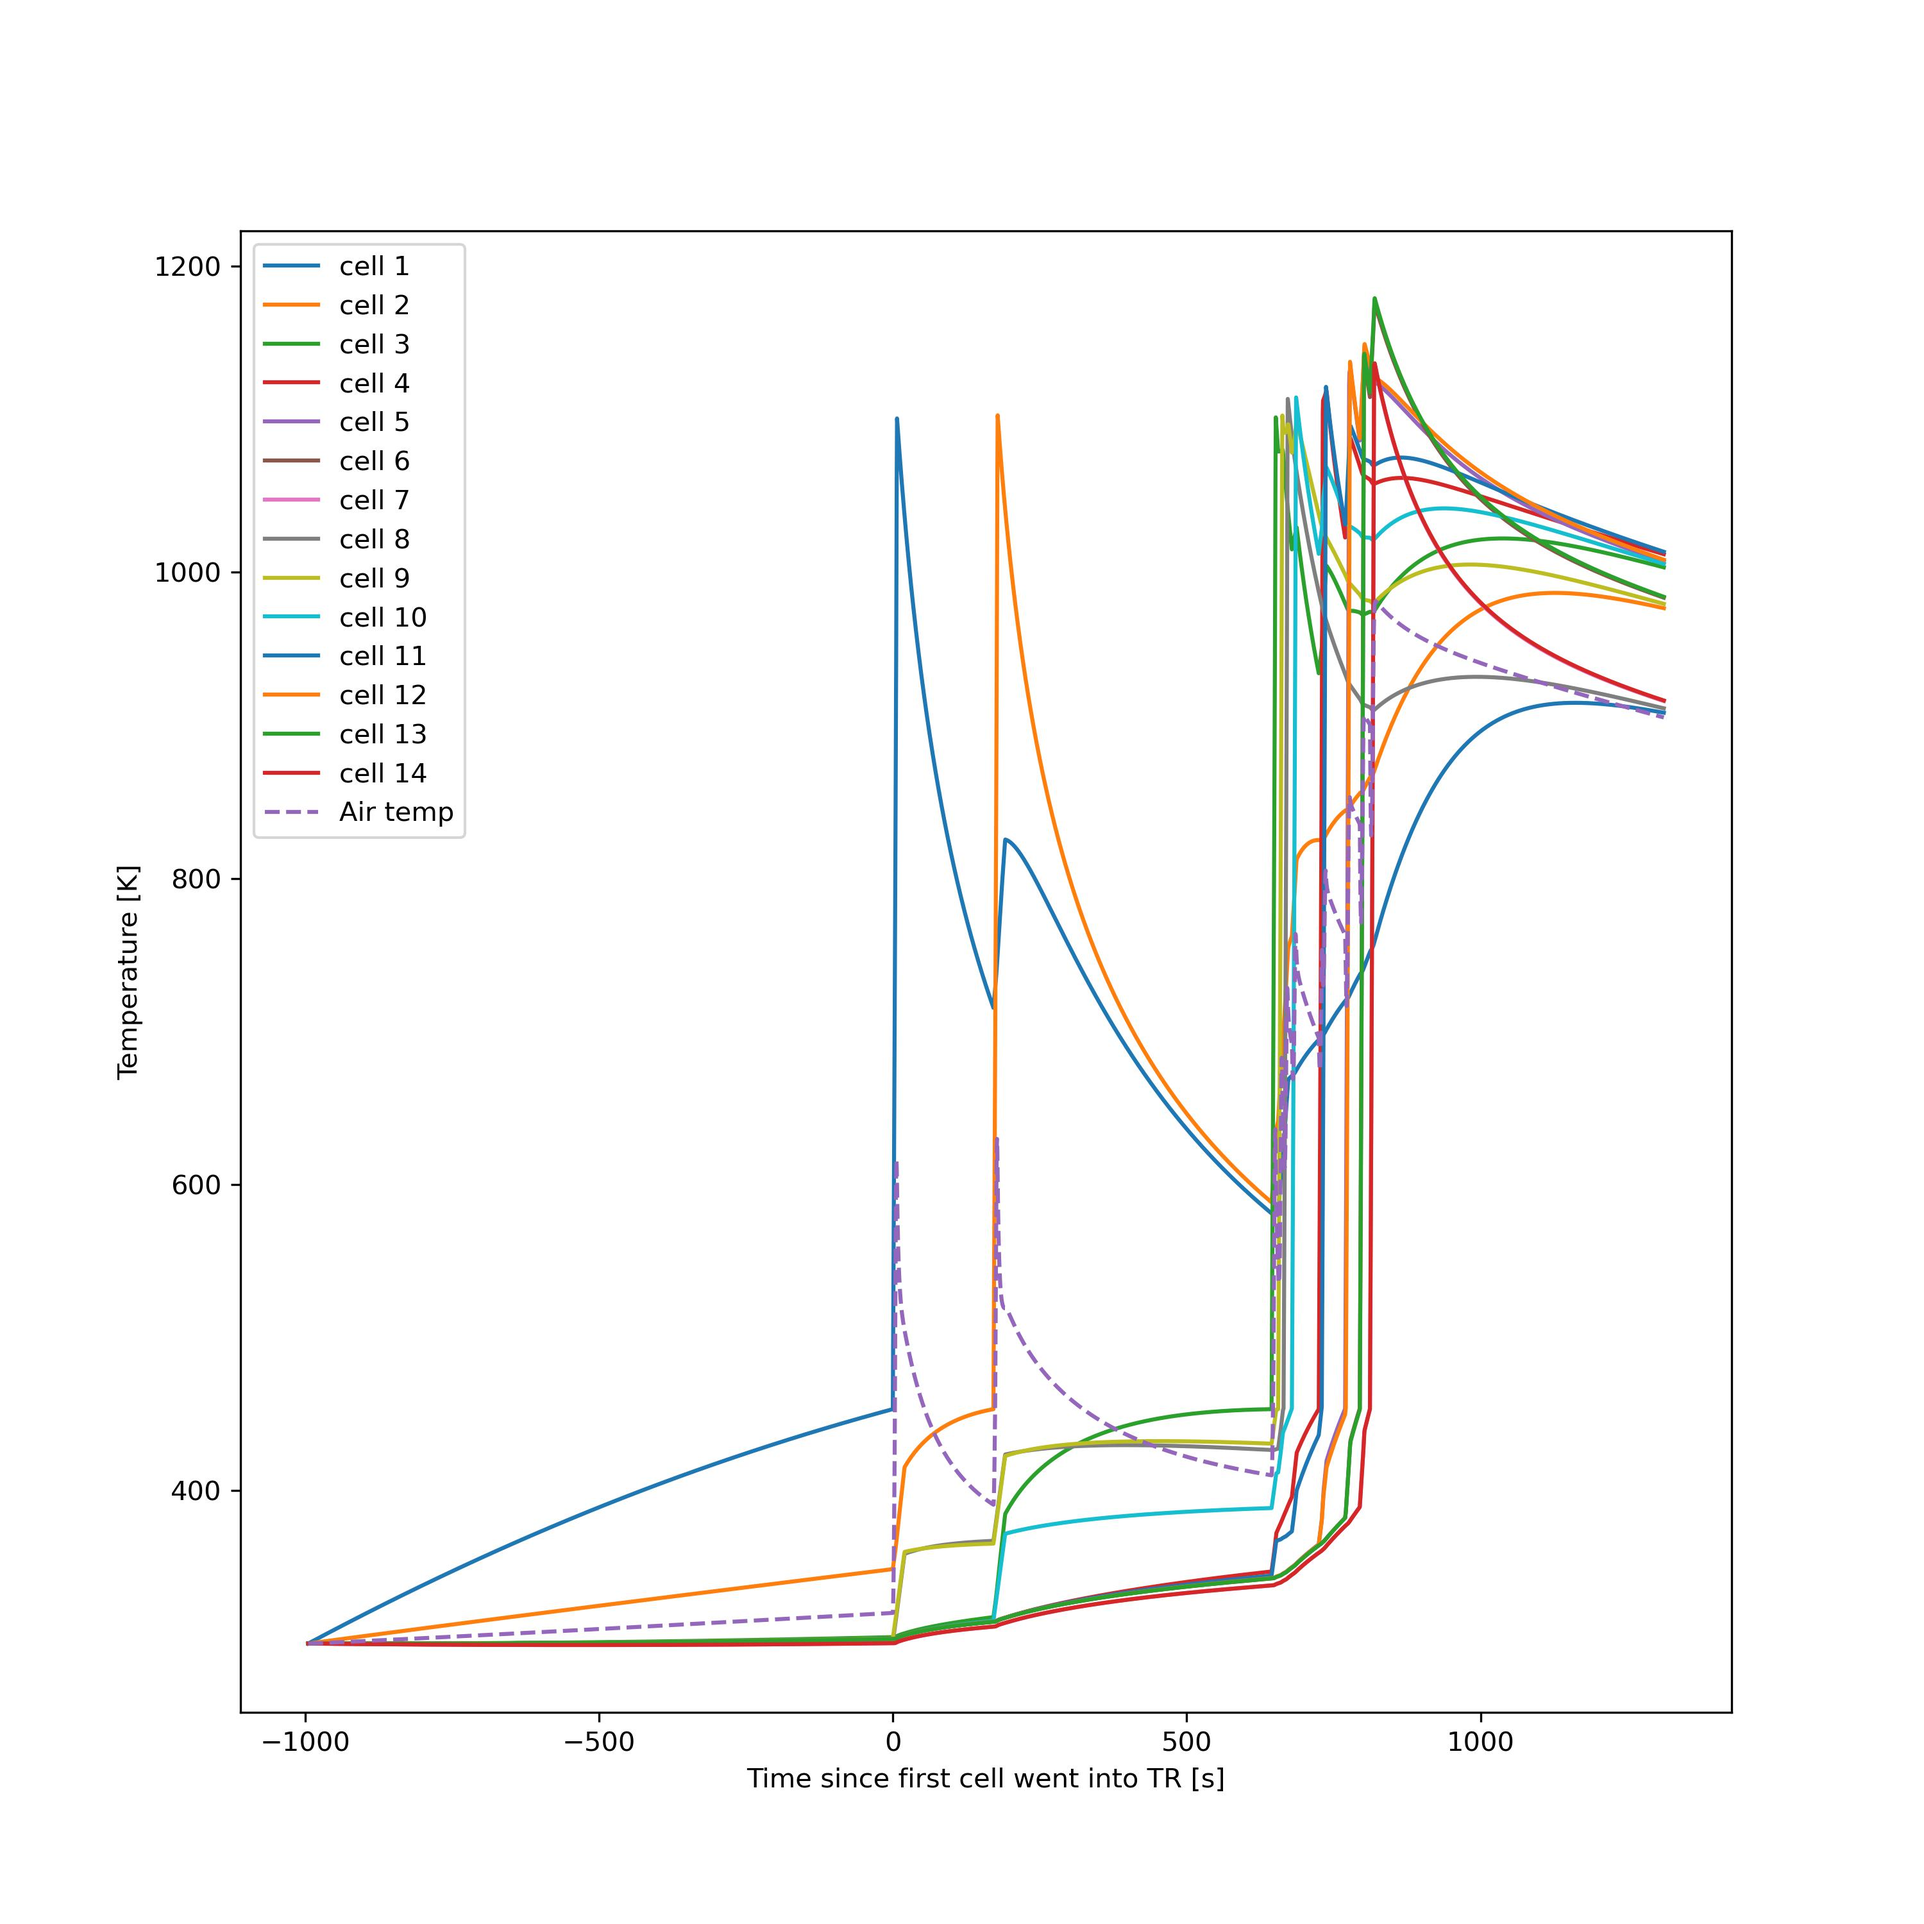
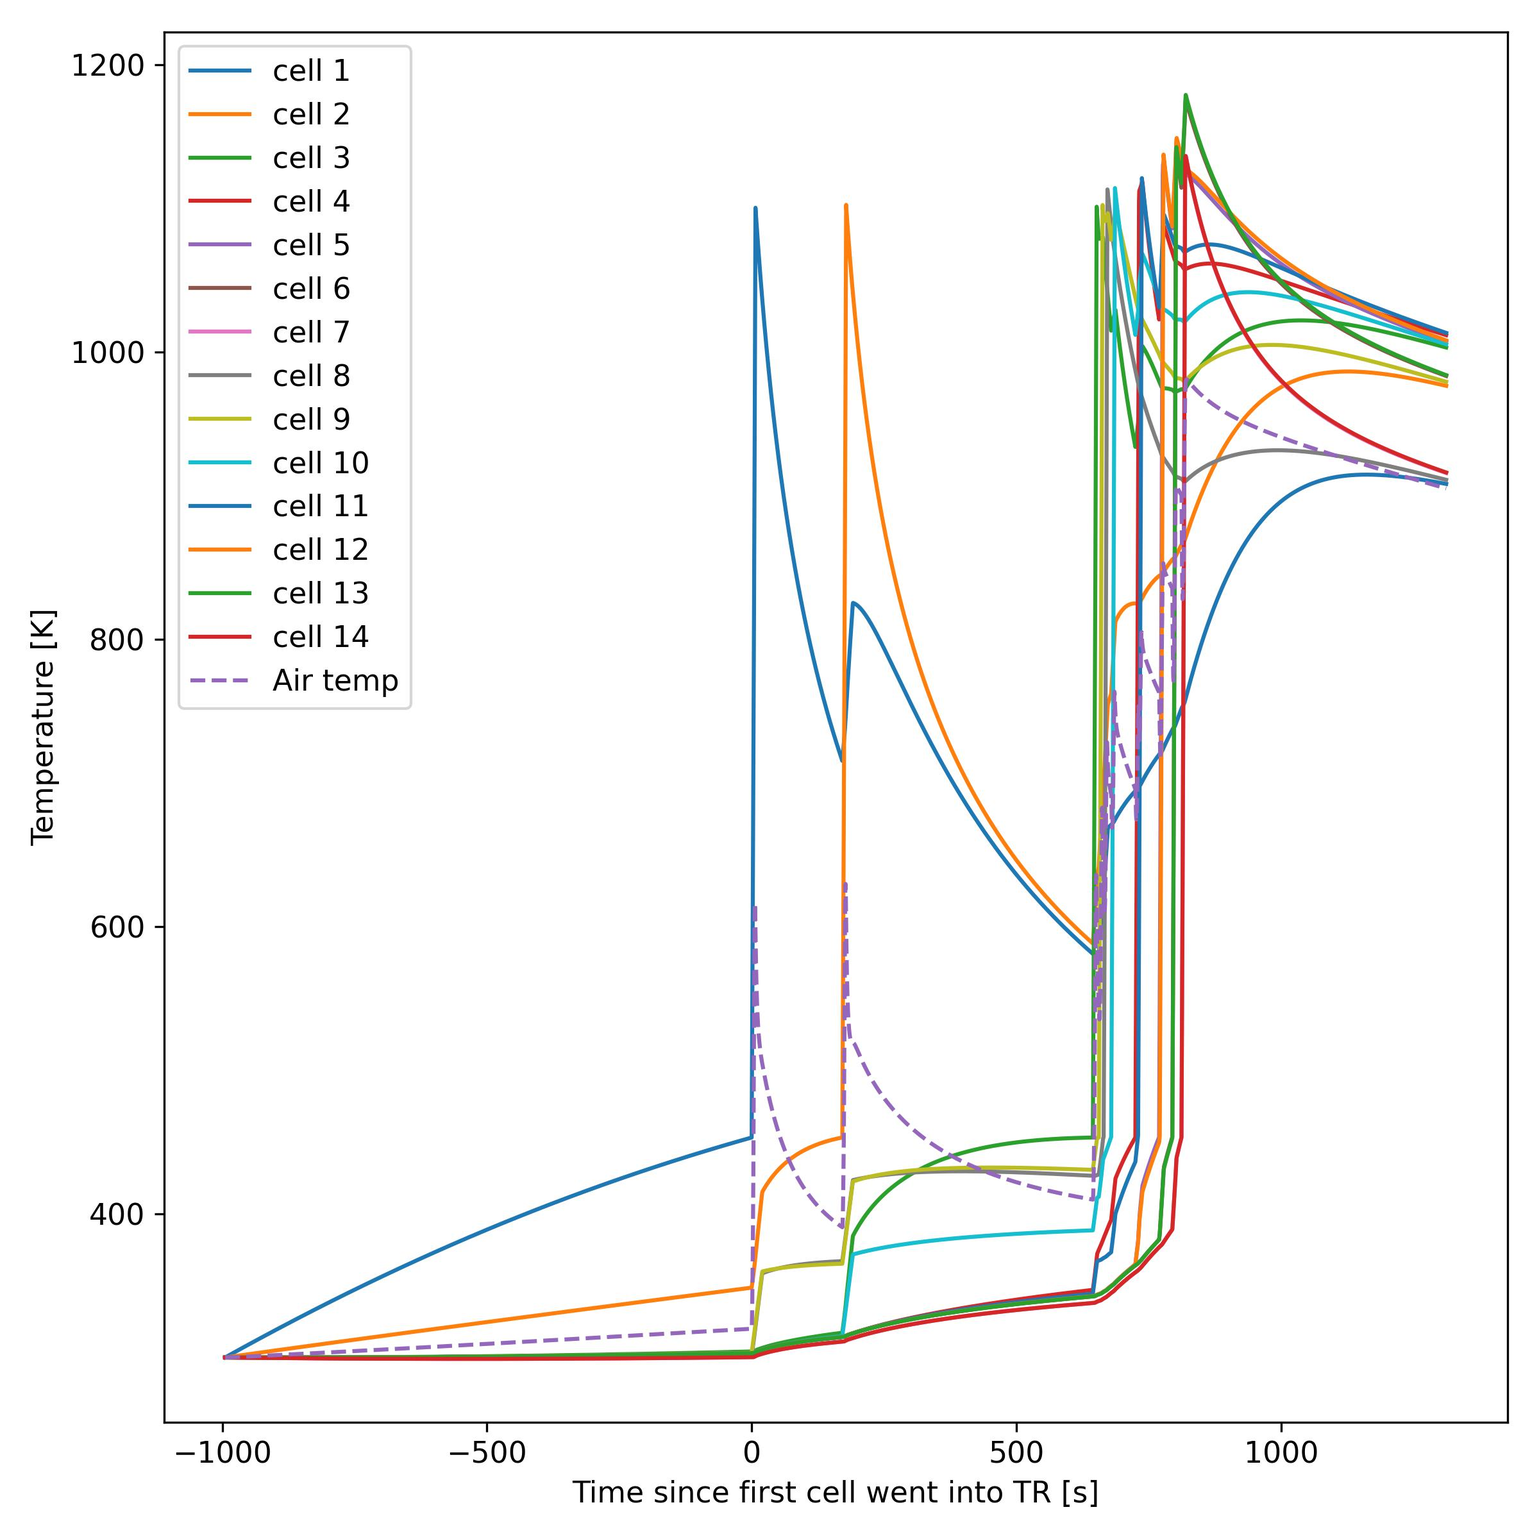
plotting ready

diff --git a/sim.py b/sim.py
@@ -3,9 +3,11 @@ Simulation script file of battery module failure (thermal runaway) propagation.
 '''
 import numpy as np
 import numpy.ma as ma
-from scipy.integrate import solve_ivp
+from scipy.integrate import solve_ivp, cumtrapz
 from matplotlib import pyplot as plt
 from auxiliaries import CellModule
+
+plt.rcParams.update({'font.size': 11})
 
 # All units are in SI-MKG unless explicitly stated; temperature unit is Kelvin
 
@@ -348,9 +350,9 @@ def main():
         heat_src_dict[cell_index] = np.array(heat_src_dict[cell_index])
         compt_heat_src_dict[cell_index] = np.array(compt_heat_src_dict[cell_index] )
         enthalpy_dict[cell_index] = np.array(enthalpy_dict[cell_index])
-    
+
     ln_temp_lst = []
-    fig_temp, axe_temp = plt.subplots(figsize=(10,10))
+    fig_temp, axe_temp = plt.subplots(figsize=(8,8))
     axe_temp.set(xlabel='Time since first cell went into TR [s]',
             ylabel='Temperature [K]')
     for ind in range(14):
@@ -359,16 +361,18 @@ def main():
     cur_ln = axe_temp.plot(solution_t - crit_time_stamp[0],solution_y[14,:],label='Air temp',linestyle='dashed')
     ln_temp_lst.append(cur_ln)
     axe_temp.legend()
+    plt.tight_layout()
     plt.show()
     fig_temp.savefig('./all_temperature.jpg',dpi=300)
 
-    fig_mass, axe_mass = plt.subplots(figsize=(10,10))
+    fig_mass, axe_mass = plt.subplots(figsize=(8,8))
     axe_mass.plot(solution_t - crit_time_stamp[0],mass_profile, color='black',linewidth=2)
-    axe_mass.set(#xlim=(-100,500),
+    axe_mass.set(xlim=(-100,1000),
                  xlabel='elapsed time since first cell went into thermal away [s]',
                  ylabel='total battery module mass [kg]')
     for each_crit_timestamp in np.cumsum(np.array(crit_time_stamp)):
         axe_mass.axvline(x=each_crit_timestamp-crit_time_stamp[0],linestyle='dashed')
+    plt.tight_layout()
     plt.show()
     fig_mass.savefig('./mass_loss.jpg',dpi=300)
     with np.printoptions(precision=1, suppress=True):
@@ -381,57 +385,121 @@ def main():
         cur_failing_index = lco_battery_module.failed_list.index(cell_index)
         cum_sum_crt_time = np.cumsum(np.array(crit_time_stamp))
         fig_cur_cell, axe_cur_cell = plt.subplots(figsize=(10,10))
-        ln1 = axe_cur_cell.plot(solution_t - cum_sum_crt_time[cur_failing_index],solution_y[cell_index,:],label=f'cell {cell_index+1}')
-        ln2 = axe_cur_cell.plot(solution_t - cum_sum_crt_time[cur_failing_index],solution_y[14,:],label='Air',linestyle='solid',linewidth=2)
+        ln1 = axe_cur_cell.plot(solution_t - cum_sum_crt_time[cur_failing_index],
+                                solution_y[cell_index,:],
+                                label=f'cell {cell_index+1} temperature',
+                                linewidth=2)
+        ln2 = axe_cur_cell.plot(solution_t - cum_sum_crt_time[cur_failing_index],
+                                solution_y[14,:],
+                                label='air temperature',
+                                linestyle='solid',
+                                linewidth=2)
         axe_cur_cell.set(xlabel=f'time since cell {cell_index+1} went into TR [s]',
                           ylabel='Temperature [K]')
-        axe_cur_cell.axvline(x=0.0,color='black',linestyle='dotted')
         axe_cur_cell2 = axe_cur_cell.twinx()
         axe_cur_cell2.set(ylabel='Heat Transfer Power [W]')
         axe_cur_cell2.axhline(y=0.0,color='black')
 
         ln3 = axe_cur_cell2.plot(solution_t - cum_sum_crt_time[cur_failing_index],
                                  conv_absp_dict[cell_index],
-                                 label=f'cell {cell_index+1} conv',
+                                 label=f'Cell {cell_index+1} convection',
                                  linestyle='dashed')
         ln4 = axe_cur_cell2.plot(solution_t - cum_sum_crt_time[cur_failing_index],
                                  rad_release_dict[cell_index],
-                                 label=f'cell {cell_index+1} rad release',
+                                 label=f'cell {cell_index+1} rad rlse',
                                  linestyle='dashed')
         ln5 = axe_cur_cell2.plot(solution_t - cum_sum_crt_time[cur_failing_index],
                                  np.sum(rad_absp_dict[cell_index],axis=1),
-                                 label=f'cell {cell_index+1} rad absorption',
+                                 label=f'cell {cell_index+1} rad absp',
                                  linestyle='dashed')
         ln6 = axe_cur_cell2.plot(solution_t - cum_sum_crt_time[cur_failing_index],
                                  np.sum(cond_absp_dict[cell_index],axis=1),
-                                 label=f'cell {cell_index+1} conduction absorption',
+                                 label=f'cell {cell_index+1} cond absp',
                                  linestyle='dashed')
         #ln7 = axe_cur_cell2.plot(solution_t - cum_sum_crt_time[cur_failing_index], heat_src_dict[cell_index],
         #                label=f'cell {cell_index+1} energy change due to heat sources from TR', linestyle='dashed')
         ln8 = axe_cur_cell2.plot(solution_t - cum_sum_crt_time[cur_failing_index],
                                  compt_heat_src_dict[cell_index],
-                                 label=f'cell {cell_index+1} energy change due to compartment heat sources',
+                                 label=f'cell {cell_index+1} compt combustion heating src',
                                  linestyle='dashed')
         #ln9 = axe_cur_cell2.plot(solution_t - cum_sum_crt_time[cur_failing_index], enthalpy_dict[cell_index],
         #                label=f'cell {cell_index+1} energy change due to mass losss', linestyle='dashed')
         lns = ln1 + ln2 + ln3 + ln4 + ln5 + ln6 + ln8 
-        #for i in [2,4]:
-        #    cur_ln = axe2.plot(solution_t - crit_time_stamp[0], cond_absp_dict[3][:,i],label=f'cell 4 absorption from {i+1} conduction', linestyle='dashed')
-        #    lns += cur_ln
-        #cur_ln = axe2.plot(solution_t - crit_time_stamp[0], np.sum(rad_absp_dict[3],axis=1),label='cell 4 absorption sum', linestyle='dashed')
-        #lns += cur_ln
-        #ln3 = axe2.plot(solution_t - crit_time_stamp[0], rad_release_dict[3],
-        #                label='cell 4 rad release',linestyle='dashed')
-        #lns = ln1 + ln2 + ln3
-        #for j in [2,4,9,10,11]:
-        #    cur_ln = axe2.plot(solution_t - crit_time_stamp[0], rad_absp_dict[3][:,j],label=f'cell 4 absorption from {j+1} radation', linestyle='dashed')
-        #    lns += cur_ln
-        #cur_ln2 = axe2.plot(solution_t - crit_time_stamp[0], rad_absp_dict[3][:,14],label='cell 4 absorption from air radation', linestyle='dashed')
-        #lns += cur_ln2
-        #ln4 = axe2.plot(solution_t - crit_time_stamp[0], cond_absp_dict[])
 
         labs = [l.get_label() for l in lns]
-        axe_cur_cell.legend(lns, labs, loc=0)
+        axe_cur_cell2.legend(lns, labs, loc=0)
+        plt.tight_layout()
         plt.show()
         fig_cur_cell.savefig(f'./{cell_index+1}-cell-temp-pwr-budget.jpg',dpi=300)
+
+        fig_energy, axe_energy = plt.subplots(figsize=(10,10))
+
+        ln11 = axe_energy.plot(solution_t - cum_sum_crt_time[cur_failing_index],
+                               solution_y[cell_index,:],
+                               label=f'cell {cell_index+1} temperature')
+        ln12 = axe_energy.plot(solution_t - cum_sum_crt_time[cur_failing_index],
+                               solution_y[14,:],
+                               label='air temperature',
+                               linestyle='solid',
+                               linewidth=2)
+        axe_energy.set(xlabel=f'time since cell {cell_index+1} went into TR [s]',
+                          ylabel='Temperature [K]')
+        axe_energy2 = axe_energy.twinx()
+        axe_energy2.set(ylabel='Energy [kJ]')
+        axe_energy2.axhline(y=0.0,color='black')
+
+        conv_energy_flow = cumtrapz(conv_absp_dict[cell_index],
+                 x=solution_t - cum_sum_crt_time[cur_failing_index], 
+                 initial=0)
+        net_radiation_energy_flow = cumtrapz(np.sum(rad_absp_dict[cell_index],axis=1)-rad_release_dict[cell_index],
+                 x=solution_t - cum_sum_crt_time[cur_failing_index], 
+                 initial=0)         
+        net_conduction_energy_flow = cumtrapz(np.sum(cond_absp_dict[cell_index],axis=1),
+                 x=solution_t - cum_sum_crt_time[cur_failing_index], 
+                 initial=0)
+        heating_src_energy_flow = cumtrapz(heat_src_dict[cell_index],
+                 x=solution_t - cum_sum_crt_time[cur_failing_index], 
+                 initial=0)
+        compt_src_energy_flow = cumtrapz(compt_heat_src_dict[cell_index],
+                 x=solution_t - cum_sum_crt_time[cur_failing_index], 
+                 initial=0)
+        enthalpy_energy_flow = cumtrapz(enthalpy_dict[cell_index],
+                 x=solution_t - cum_sum_crt_time[cur_failing_index], 
+                 initial=0)
+
+        ln13 = axe_energy2.plot(solution_t - cum_sum_crt_time[cur_failing_index],
+                                 conv_energy_flow/1.e3,
+                                 label=f'Cell {cell_index+1} convection absp',
+                                 linestyle='dashed')
+        ln14 = axe_energy2.plot(solution_t - cum_sum_crt_time[cur_failing_index],
+                                 net_radiation_energy_flow/1e3,
+                                 label=f'Cell {cell_index+1} net rad absp',
+                                 linestyle='dashed')
+
+        ln15 = axe_energy2.plot(solution_t - cum_sum_crt_time[cur_failing_index],
+                                 net_conduction_energy_flow/1e3,
+                                 label=f'Cell {cell_index+1} cond absp',
+                                 linestyle='dashed')
+        
+        ln16 = axe_energy2.plot(solution_t - cum_sum_crt_time[cur_failing_index],
+                                heating_src_energy_flow/1e3,
+                                label=f'Cell {cell_index+1} TR heat absp',
+                                linestyle='dashed')
+
+        ln17 = axe_energy2.plot(solution_t - cum_sum_crt_time[cur_failing_index],
+                                 compt_src_energy_flow/1e3,
+                                 label=f'Cell {cell_index+1} compt combustion absp',
+                                 linestyle='dashed')
+        
+        ln18 = axe_energy2.plot(solution_t - cum_sum_crt_time[cur_failing_index],
+                                enthalpy_energy_flow/1e3,
+                                label=f'Cell {cell_index+1} mass loss energy change',
+                                linestyle='dashed')
+        lns_10s = ln11 + ln12 + ln13 + ln14 + ln15 + ln16 + ln17 + ln18 
+
+        labs_10s = [l.get_label() for l in lns_10s]
+        axe_energy2.legend(lns_10s, labs_10s, loc=0)
+        plt.tight_layout()
+        plt.show()
+        fig_energy.savefig(f'./{cell_index+1}-cell-temp-energy-budget.jpg',dpi=300)
 main()
